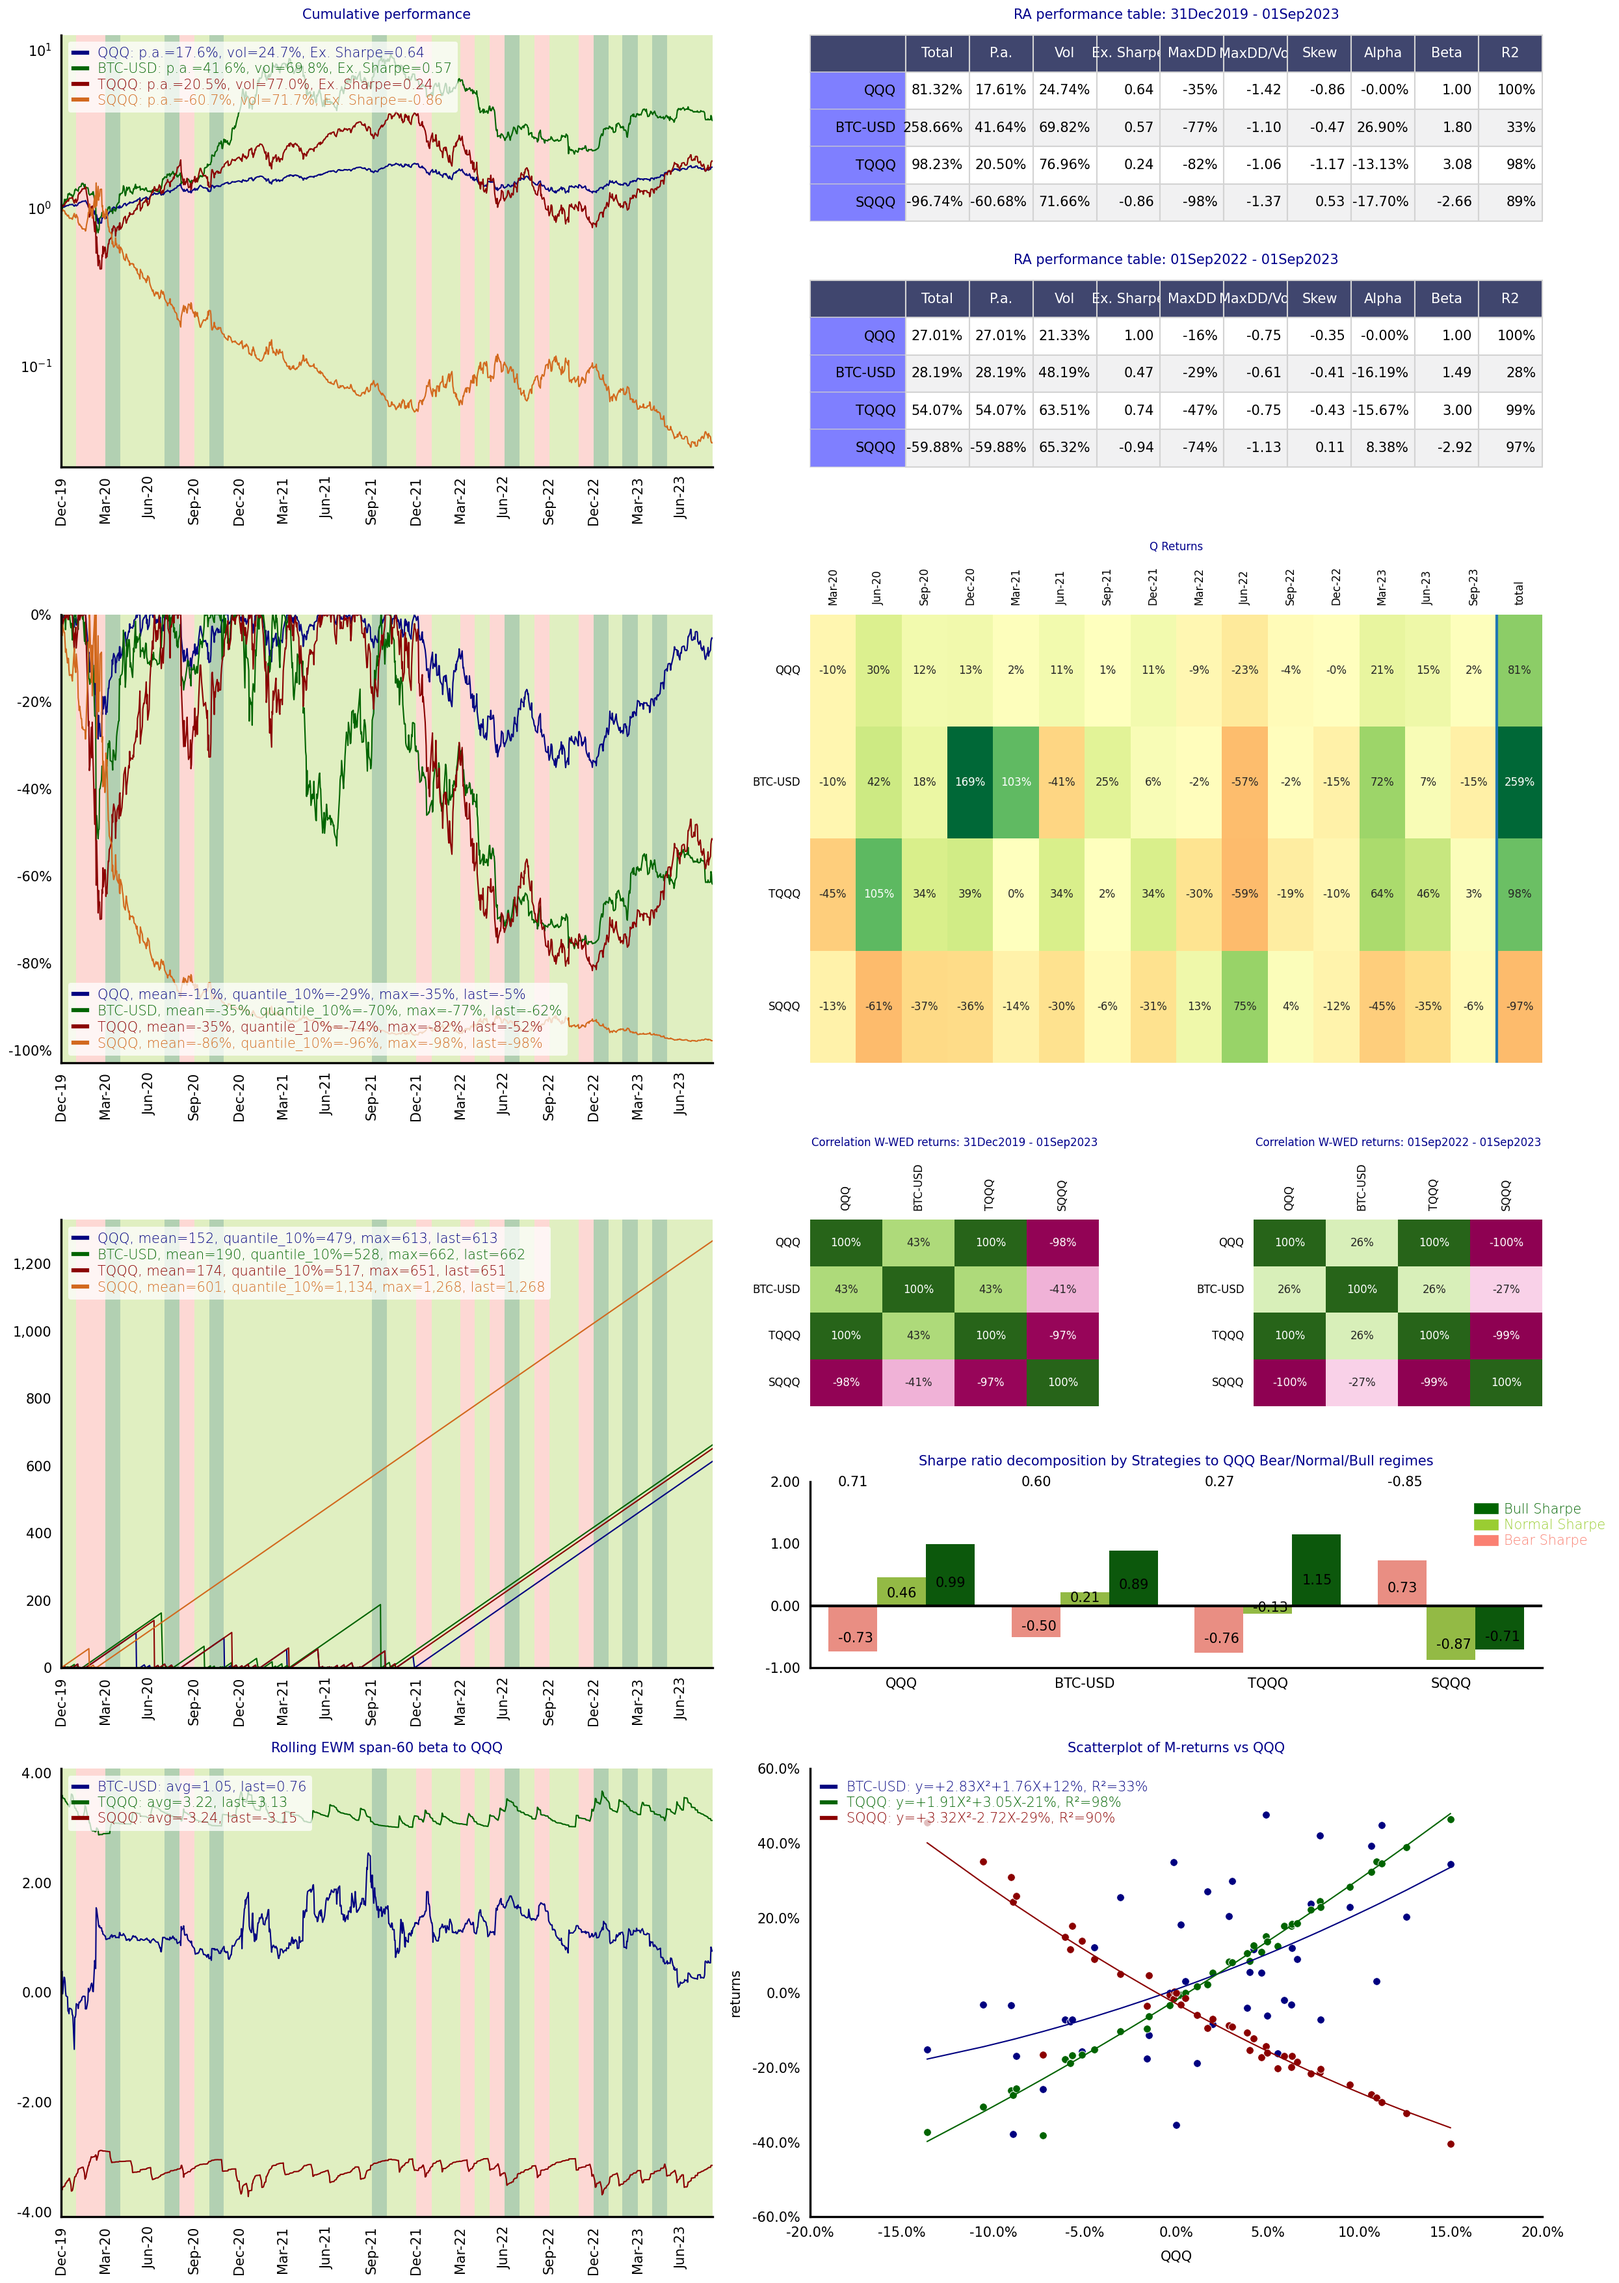
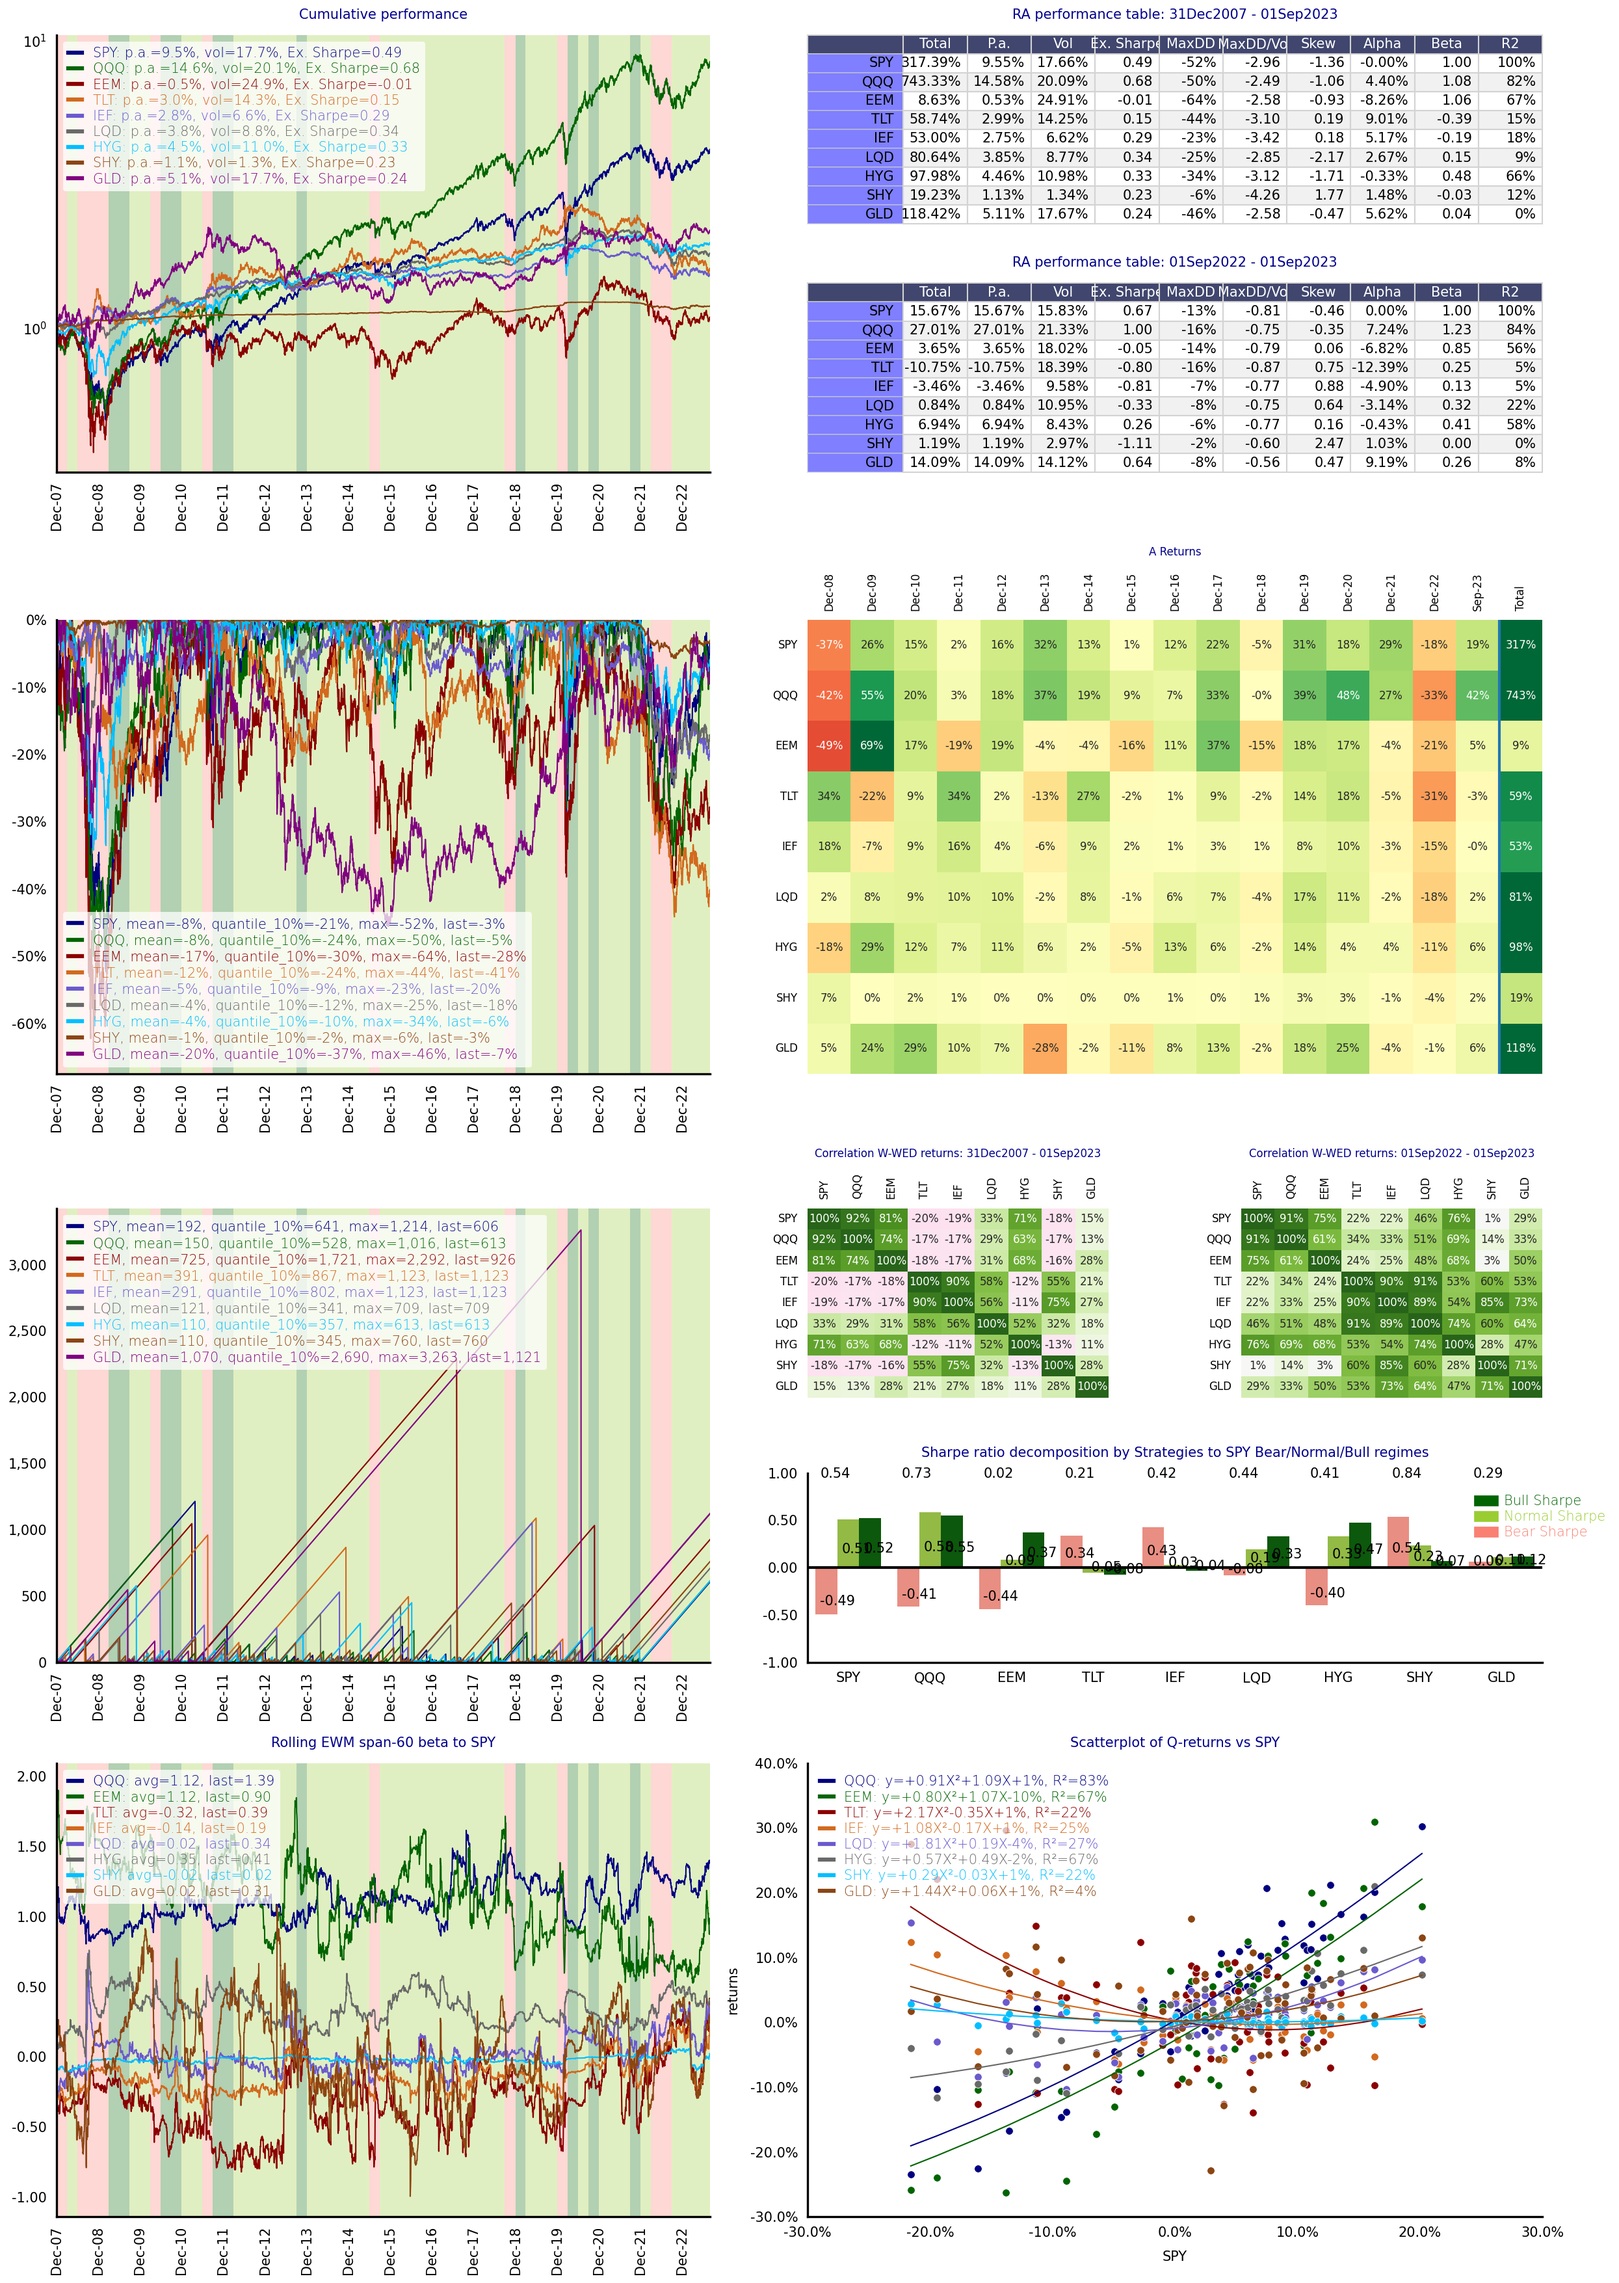
refactor factsheet reports

diff --git a/qis/perfstats/perf_stats.py b/qis/perfstats/perf_stats.py
@@ -236,6 +236,7 @@ def compute_ra_perf_table_with_benchmark(prices: pd.DataFrame,
                                          perf_params: PerfParams = None,
                                          is_log_returns: bool = False,
                                          alpha_an_factor: float = None,
+                                         freq_reg: str = None,
                                          **kwargs
                                          ) -> pd.DataFrame:
 
@@ -246,7 +247,8 @@ def compute_ra_perf_table_with_benchmark(prices: pd.DataFrame,
 
     ra_perf_table = compute_ra_perf_table(prices=prices, perf_params=perf_params)
 
-    returns = ret.to_returns(prices=prices, freq=perf_params.freq_reg, is_log_returns=is_log_returns)
+    # compute benchmark regression
+    returns = ret.to_returns(prices=prices, freq=freq_reg or perf_params.freq_reg, is_log_returns=is_log_returns)
     alphas, betas, r2 = {}, {}, {}
     for column in returns.columns:
         joint_data = returns[[benchmark, column]].dropna()

diff --git a/qis/portfolio/reports/strategy_benchmark_factsheet.py b/qis/portfolio/reports/strategy_benchmark_factsheet.py
@@ -102,10 +102,12 @@ def generate_strategy_benchmark_factsheet_plt(multi_portfolio_data: MultiPortfol
                                                **qis.update_kwargs(kwargs, dict(fontsize=4)))
 
     time_period1 = qis.get_time_period_shifted_by_years(time_period=time_period)
+    # change regression to weekly
     multi_portfolio_data.plot_ac_ra_perf_table(ax=fig.add_subplot(gs[2:4, 2:]),
                                                benchmark_price=benchmark_price,
                                                perf_params=perf_params,
-                                               **qis.update_kwargs(kwargs, dict(time_period=time_period1, fontsize=4)))
+                                               **qis.update_kwargs(kwargs, dict(time_period=time_period1, fontsize=4,
+                                                                                alpha_an_factor=52, freq_reg='W-WED')))
 
     # periodic returns
     local_kwargs = qis.update_kwargs(kwargs=kwargs,

diff --git a/qis/portfolio/reports/strategy_factsheet.py b/qis/portfolio/reports/strategy_factsheet.py
@@ -148,11 +148,12 @@ def generate_strategy_factsheet(portfolio_data: PortfolioData,
                                       perf_params=perf_params,
                                       **qis.update_kwargs(kwargs, dict(fontsize=4)))
     ax = fig.add_subplot(gs[1, 2:])
+    # change regression to weekly
     portfolio_data.plot_ra_perf_table(ax=ax,
                                       benchmark_price=benchmark_prices[regime_benchmark],
                                       time_period=qis.get_time_period_shifted_by_years(time_period=time_period),
                                       perf_params=perf_params,
-                                      **qis.update_kwargs(kwargs, dict(fontsize=4)))
+                                      **qis.update_kwargs(kwargs, dict(fontsize=4, alpha_an_factor=52, freq_reg='W-WED')))
 
     # heatmap
     ax = fig.add_subplot(gs[2:4, 2:])

diff --git a/qis/portfolio/reports/multi_assets_factsheet.py b/qis/portfolio/reports/multi_assets_factsheet.py
@@ -333,9 +333,12 @@ def generate_multi_asset_factsheet(prices: pd.DataFrame,
                               **kwargs)
 
     time_period1 = qis.get_time_period_shifted_by_years(time_period=qis.get_time_period(df=prices))
+    # change regression to weekly
     report.plot_ra_perf_table(benchmark=benchmark,
                               ax=fig.add_subplot(gs[1, 2:]),
-                              **qis.update_kwargs(kwargs, dict(time_period=time_period1)))
+                              **qis.update_kwargs(kwargs, dict(time_period=time_period1,
+                                                               alpha_an_factor=52,
+                                                               freq_reg='W-WED')))
 
     report.plot_annual_returns(ax=fig.add_subplot(gs[2:4, 2:]),
                                heatmap_freq=heatmap_freq,

diff --git a/qis/portfolio/reports/multi_strategy_factsheet.py b/qis/portfolio/reports/multi_strategy_factsheet.py
@@ -125,7 +125,7 @@ def generate_multi_portfolio_factsheet(multi_portfolio_data: MultiPortfolioData,
     multi_portfolio_data.plot_ra_perf_table(ax=fig.add_subplot(gs[3, 2:]),
                                             perf_params=perf_params,
                                             time_period=qis.get_time_period_shifted_by_years(time_period=time_period),
-                                            **qis.update_kwargs(kwargs, dict(fontsize=5)))
+                                            **qis.update_kwargs(kwargs, dict(fontsize=5, alpha_an_factor=52, freq_reg='W-WED')))
     """
     multi_portfolio_data.plot_corr_table(ax=fig.add_subplot(gs[3, 2:]),
                                          time_period=time_period,

diff --git a/setup.py b/setup.py
@@ -16,7 +16,7 @@ requirements = read_requirements("requirements.txt")
 
 setup(
     name='qis',
-    version='2.0.12',
+    version='2.0.14',
     author='Artur Sepp',
     author_email='artursepp@gmail.com',
     url='https://github.com/ArturSepp/QuantInvestStrats',

diff --git a/qis/examples/factsheets/multi_assets.py b/qis/examples/factsheets/multi_assets.py
@@ -52,7 +52,7 @@ def run_unit_test(unit_test: UnitTests):
 
 if __name__ == '__main__':
 
-    unit_test = UnitTests.BTC_SQQQ
+    unit_test = UnitTests.CORE_ETFS
 
     is_run_all_tests = False
     if is_run_all_tests:
